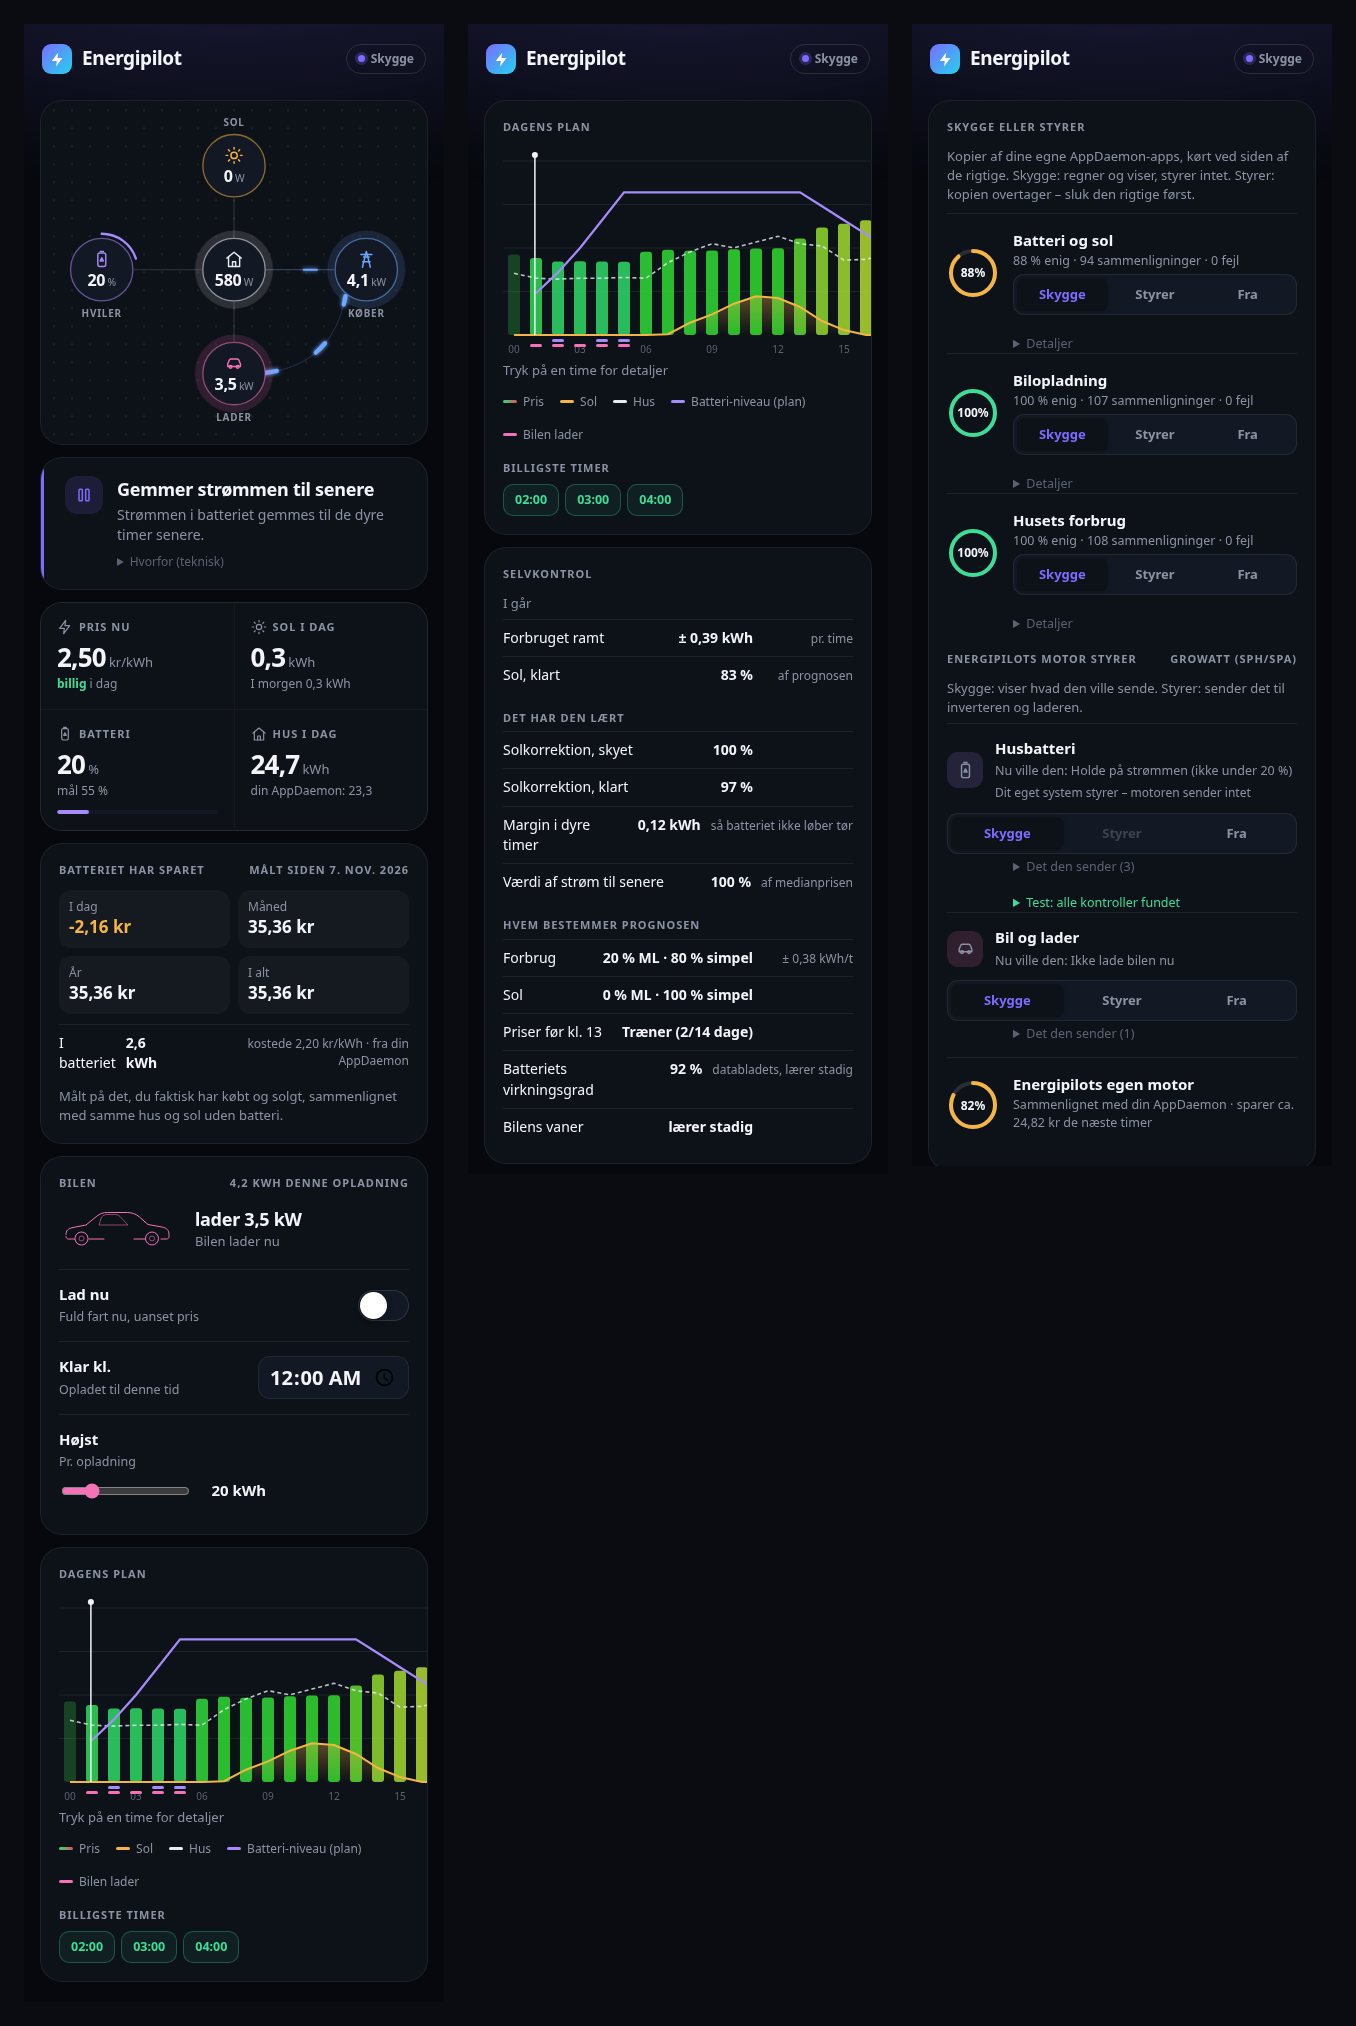
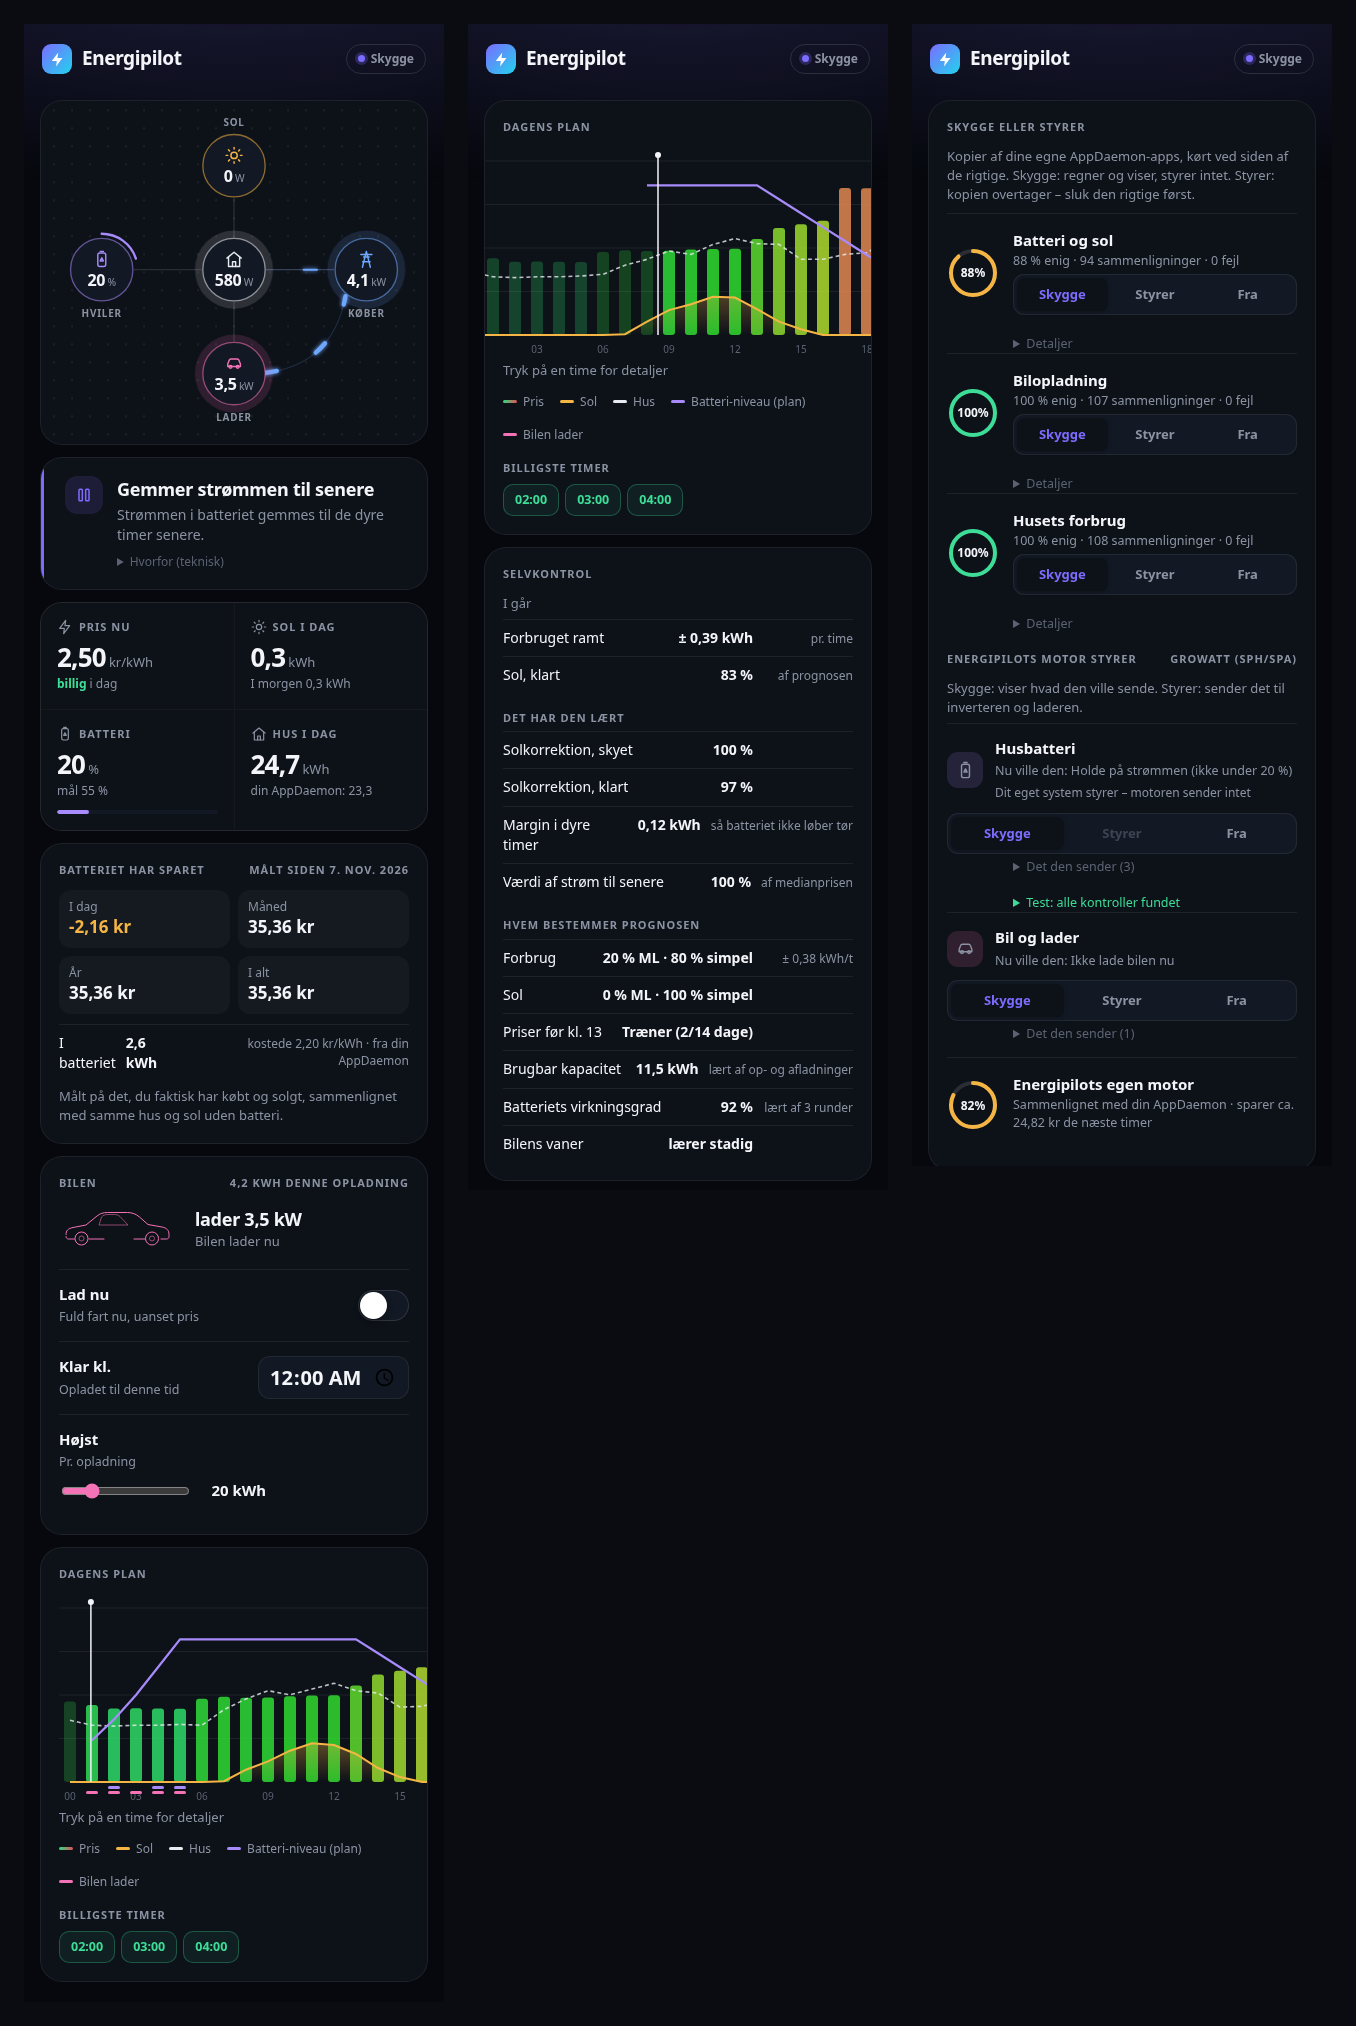
README og billede: brugbar kapacitet læres

Changed region(s): [[0.3407, 0.0933, 0.6504, 0.1866], [0.3717, 0.5286, 0.5575, 0.5908]]

diff --git a/README.md b/README.md
@@ -44,7 +44,8 @@ one decide:
   earned: nothing until it has three weeks of data, half when the two hit equally well, more when it's better. If it
   starts to miss – a new heat pump, a new car – its share goes down again by itself.
 - **It also learns** how far off the solar forecast usually is on cloudy and clear days, a safety margin for the dear
-  hours, the battery's real efficiency, and the car's habits (when it leaves, how much it takes). What you set
+  hours, the battery's real usable capacity and efficiency (labels often say more than what's usable, and batteries wear),
+  and the car's habits (when it leaves, how much it takes). What you set
   yourself always wins.
 
 The panel shows who decides right now and how well each one hits:
